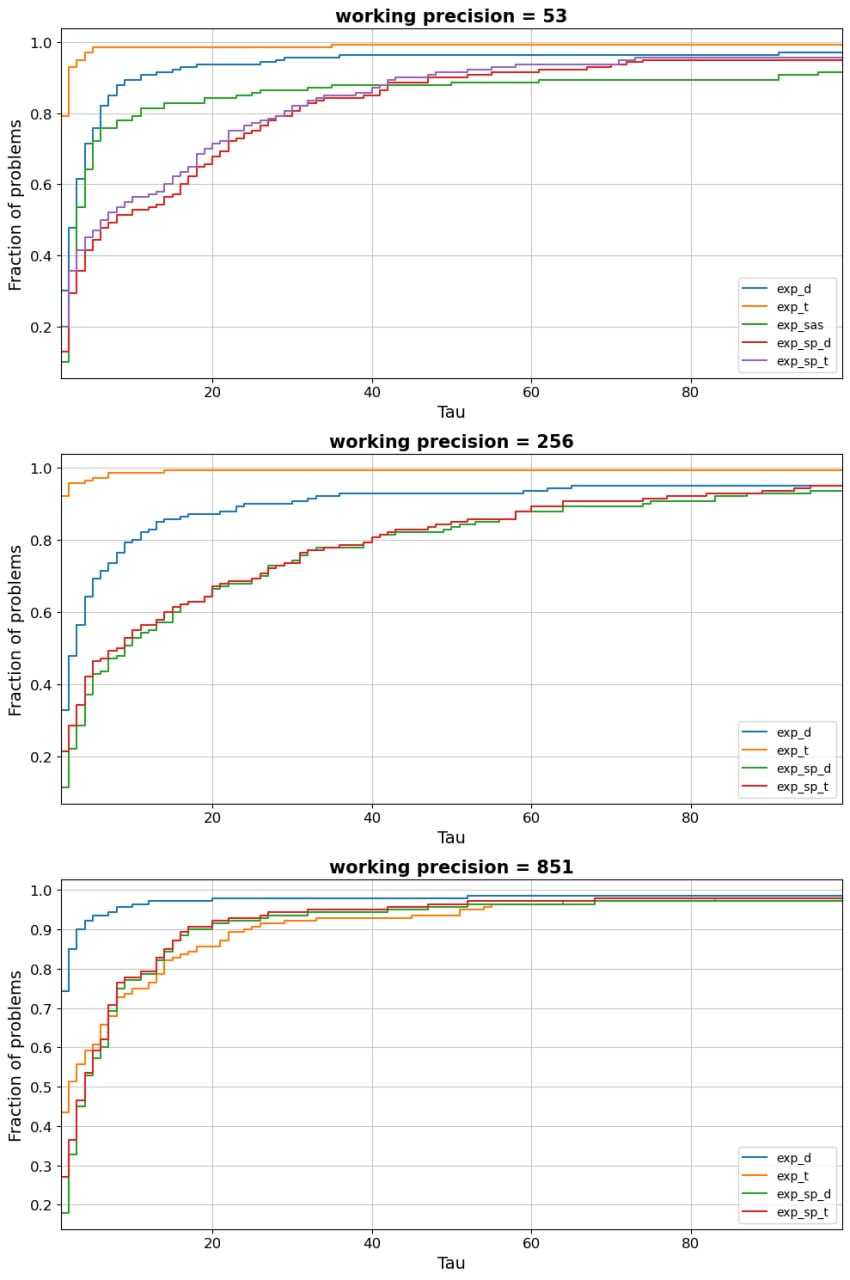
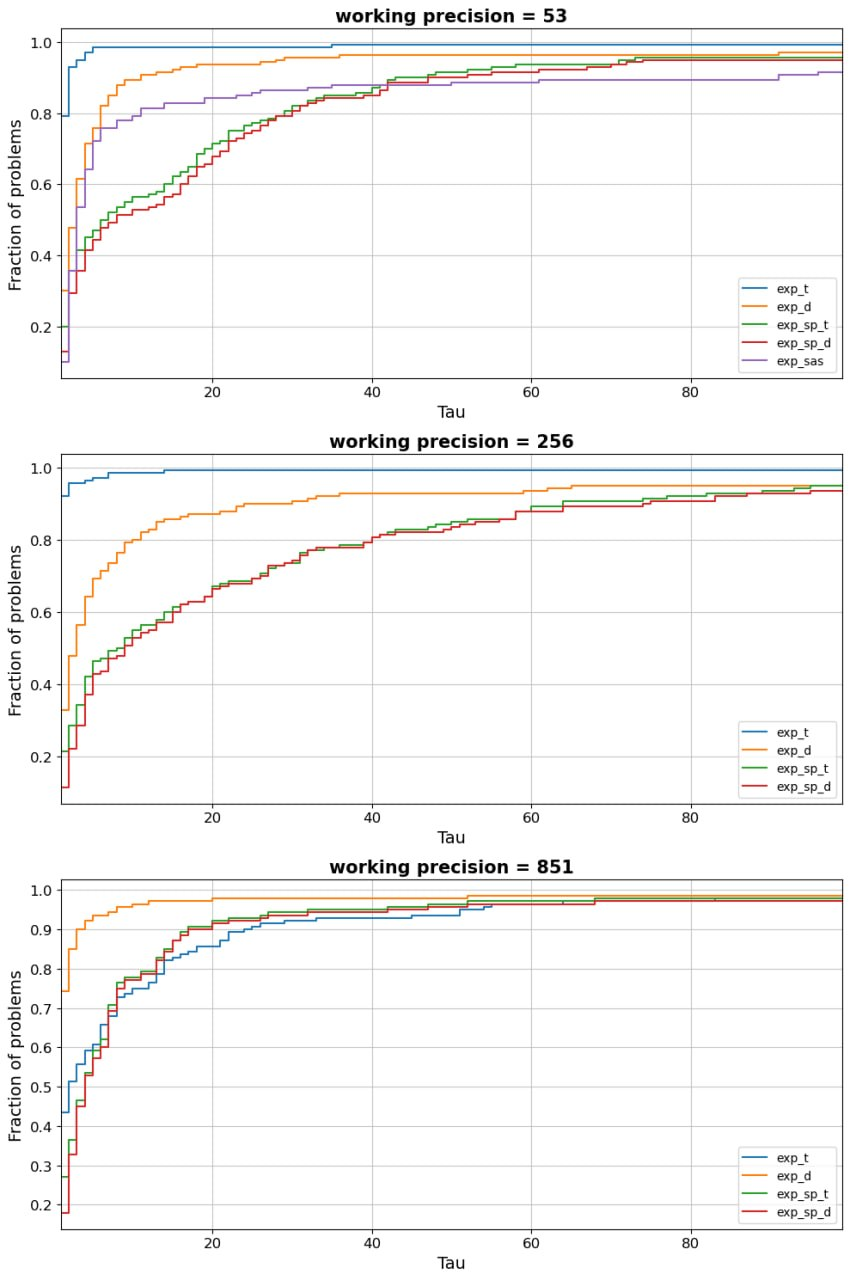
Recepite alcune osservazioni del prof. Grafico hump. Altri progressi

diff --git a/Tesi/Capitoli/Chapter6.tex b/Tesi/Capitoli/Chapter6.tex
@@ -181,7 +181,7 @@ The bound for $\norm*{\exp(A)-Y_{\textup{true}}}$ depends on the conditioning of
 \begin{oss*}
 	In~\cite{exptayotf18}, the authors also propose numerical experiments analogous to those described in Algorithm~\ref{alg:second_test_strat}, but in which $\mathcal{A}$ is of the form $H^{\top}\!JH$ with $J$ being a Jordan form that makes $\mathcal{A}$ defective.
 	
-	The error bounds and the discussions in this section hold in this case as well. In fact, the \textcolor{red}{crucial aspects / grounding elements} are the unitary change of basis $H$ and the matrix multiplications performed in floating-point arithmetic. 
+	The error bounds and the discussions in this section hold in this case as well. In fact, the crucial aspects are the unitary change of basis $H$ and the matrix multiplications performed in floating-point arithmetic. 
 \end{oss*}
 
 \subsubsection{Experimental setup, in conclusion}
@@ -222,13 +222,14 @@ Some configurations of the algorithm haven't been executed on all of the test ma
 \smallskip 
 
 Figure~\vref{fig:hist_matrix_sizes} shows how many $n\times n$ matrices are present in the test set, for each available size $n$.
-\begin{figure}[hbp]
+\begin{figure}[htp]
 	\centering
 	\includegraphics[width=0.8\textwidth]{Immagini/hist_matrix_sizes}
 	\caption{\emph{Number of distinct test matrices per matrix size.}}
 	\label{fig:hist_matrix_sizes}
 \end{figure}
-Most matrices are $10$-by-$10$, the maximum size is $24$-by-$24$. Such small sizes are motivated by performance considerations, as the algorithm to compute $\kappa_{\exp}$ (Algorithm~\ref{alg:exact_cond_n}) struggles even on matrices of moderate size, and \textcolor{red}{-- as already discussed somewhere --} \texttt{exp\_mp} is computationally expensive as well. We remark that most test matrices are the same that were used in the accuracy tests in~\cite{higham:hf19_mpexpm}. This included their sizes. \textcolor{red}{La tolgo questa osservazione se è troppo passivo-aggressiva senza essere davvero necessaria.}
+Most matrices are $10$-by-$10$, the maximum size is $24$-by-$24$. Such small sizes are motivated by performance considerations, as the algorithm to compute $\kappa_{\exp}$ (Algorithm~\ref{alg:exact_cond_n}) struggles even on matrices of moderate size, and \textcolor{red}{-- as already discussed somewhere --} \texttt{exp\_mp} is computationally expensive as well. 
+The accuracy tests in~\cite{higham:hf19_mpexpm} also use small matrices only, presumably for the same reasons.
 
 Table~\ref{tab:hermitian_test_matrices} specifies how many samples refer to Hermitian matrices and how many refer to non Hermitian matrices.
 \begin{table}[htp]
@@ -254,9 +255,38 @@ Table~\ref{tab:hermitian_test_matrices} specifies how many samples refer to Herm
 
 
 \subsection{Computing the reference solution}
-The exponential of some of the test matrices is known in closed formula. For $8$ test matrices ($152$ samples), $Y_{\textup{true}}$ was computed in advance, by evaluating the formula at a high precision $\hat{p}$. This was done only for the matrices $A$ for which it would be guaranteed that $Y_{\textup{true}}=\exp(A)+E$ s.t. $\norm{E}/\norm{\exp(A)}=O(u_{\hat{p}})$, and for which there was the ``suspicion'' that the methods to compute the reference solution wouldn't return a good approximation of $\exp(A)$, or at least not as good as the high precision evaluation of its closed formula.\newline
-\textcolor{red}{Se serve posso mettere un esempio un po' interessante, diverso dall'esponenziale di una matrice diagonale. Se l'approccio è sbagliato, faccio che tutte le soluzioni di riferimento le calcola mpmath e via.}\newline
-For the vast majority of the test matrices, the reference solution was computed using another numerical method.
+The exponential of some of the test matrices is known in closed formula. For $8$ test matrices ($152$ samples), $Y_{\textup{true}}$ was computed in advance, by evaluating the formula at a high precision $\hat{p}$. This was done only for the matrices $A$ for which it would be guaranteed that $Y_{\textup{true}}=\exp(A)+E$ such that $\norm{E}/\norm{\exp(A)}=O(u_{\hat{p}})$, and for which there was the ``suspicion'' that the methods to compute the reference solution wouldn't return a good approximation of $\exp(A)$, or at least not as good as the high precision evaluation of its closed formula.
+\begin{esempio}
+	Let $b=10^4$ and let
+	\vspace{-1em}
+	\[
+		A = \begin{pmatrix}
+			1-\frac{b}{2} & \frac{b}{2}\\
+			-\frac{b}{2} & 1+\frac{b}{2}
+		\end{pmatrix}=
+		\begin{pmatrix}
+			1 & 0 \\ 0 & 1
+		\end{pmatrix}+\!\quad\raisebox{6.5pt}{$
+		\begin{NiceArray}{ccc}[first-row]
+			 \Hbrace{1}{\coloneqq u} & \Hbrace{2}{\coloneqq v^{\top}}\\
+			-1 & \frac{b}{2} & -\frac{b}{2}\\
+			 1 & & \\
+		\CodeAfter
+			\SubMatrix({1-1}{2-1})
+			\SubMatrix({1-2}{1-3})
+			%\OverBrace[shorten, yshift=3pt]{1-1}{2-1}{\mathsmaller{\coloneqq u}}
+			%\OverBrace[shorten, yshift=3pt]{1-2}{1-3}{\tiny\coloneqq v^\top}
+		\end{NiceArray}$}\,\ =I+uv^{\top}
+	\]
+	A is a rank 1 correction of the identity. There is an explicit formula for the function of such matrices, see~\cite[Eqn.~1.16]{higham:matfun_book}. By applying it, we get
+	\begin{align*}
+		\exp(A) &= \exp(I+uv^{\top}) = \exp(1)I + \exp\!\qty[1+\langle u,v\rangle,1]\,uv^{\top}\\
+		&=\exp(1)I+\exp[1,1]\,uv^{\top} = \exp(1)I+\exp'(1)\,uv^{\top}\\
+		&=\exp(1)\qty(I+uv^{\top}) = \exp(1) A,
+	\end{align*}
+	which can be easily evaluated in arbitrary precision.
+\end{esempio}
+For the vast majority of the test matrices, the reference solution was computed using another numerical method, which we will now describe.
 \smallskip 
 
 \textcolor{red}{Rivisitare alla luce di paragrafo~\ref{subs:diagonalization}} In an earlier phase of testing, $Y_{\textup{true}}$ was being computed via diagonalization, i.e. as $Y_{\textup{true}}=\mathtt{V}*\exp(\mathtt{D})\,/\,\mathtt{V}$, where $\mathtt{V}$ and $\mathtt{D}$ are, respectively, the eigenvector and eigenvalue matrices returned by a high precision eigendecomposition. 
@@ -376,15 +406,41 @@ Table~\vref{tab:samples_within_bnd} \textcolor{red}{(che sicuramente va sistemat
 	\centering
 	\caption{\emph{Number (and percentage) of matrices for which the relative error is bounded by $n^2\cdot\kappa_{\exp}\cdot u_p$, for each \texttt{exp\_mp} configuration and for each working precision value.}}
 	\label{tab:samples_within_bnd}
-	\begin{tabular}{lcccccc}
-	\toprule
-	\multirow{2}*{$p$} & \multicolumn{2}{c}{\texttt{transfree}} & \multicolumn{2}{c}{\texttt{realschur}} & \multicolumn{2}{c}{\texttt{complexschur}}\\
-	\cmidrule(lr){2-3} \cmidrule(lr){4-5} \cmidrule(lr){6-7}
-	 & Padé & Taylor & Padé & Taylor & Padé & Taylor\\
-	\midrule
-	$53$  & $132$ ($\SIqty{94.29}{\percent}$) & $133$ ($\SIqty{95.00}{\percent}$) & $122$ ($\SIqty{94.57}{\percent}$) & $122$ ($\SIqty{94.57}{\percent}$) & $133$ ($\SIqty{95.00}{\percent}$) & $133$ ($\SIqty{95.00}{\percent}$) \\
-	$256$ & $132$ ($\SIqty{94.29}{\percent}$) & $133$ ($\SIqty{95.00}{\percent}$) & $122$ ($\SIqty{94.57}{\percent}$) & $122$ ($\SIqty{94.57}{\percent}$) & $133$ ($\SIqty{95.00}{\percent}$) & $133$ ($\SIqty{95.00}{\percent}$) \\
-	$851$ & $133$ ($\SIqty{95.00}{\percent}$) & $132$ ($\SIqty{94.29}{\percent}$) & $121$ ($\SIqty{93.80}{\percent}$) & $121$ ($\SIqty{93.80}{\percent}$) & $132$ ($\SIqty{94.29}{\percent}$) & $132$ ($\SIqty{94.29}{\percent}$) \\
-	\bottomrule
+	\begin{tabular}{ccccc}
+		\toprule
+		\multirow{2}*{Algorithm} & \multirow{2}*{Approx.} & \multicolumn{3}{c}{Precision $p$}\\
+		\cmidrule(lr){3-5}
+		 &  & $53$ & $256$ & $851$ \\
+		\midrule
+		\multirow{2}{*}{\texttt{transfree}}
+		& Padé
+		& $132$ (\SIqty{94.29}{\percent})
+		& $132$ (\SIqty{94.29}{\percent})
+		& $133$ (\SIqty{95.00}{\percent}) \\
+		& Taylor
+		& $133$ (\SIqty{95.00}{\percent})
+		& $133$ (\SIqty{95.00}{\percent})
+		& $132$ (\SIqty{94.29}{\percent}) \\
+		\midrule
+		\multirow{2}{*}{\texttt{realschur}}
+		& Padé
+		& $122$ (\SIqty{94.57}{\percent})
+		& $122$ (\SIqty{94.57}{\percent})
+		& $121$ (\SIqty{93.80}{\percent}) \\
+		& Taylor
+		& $122$ (\SIqty{94.57}{\percent})
+		& $122$ (\SIqty{94.57}{\percent})
+		& $121$ (\SIqty{93.80}{\percent}) \\
+		\midrule
+		\multirow{2}{*}{\texttt{complexschur}}
+		& Padé
+		& $133$ (\SIqty{95.00}{\percent})
+		& $133$ (\SIqty{95.00}{\percent})
+		& $132$ (\SIqty{94.29}{\percent}) \\
+		& Taylor
+		& $133$ (\SIqty{95.00}{\percent})
+		& $133$ (\SIqty{95.00}{\percent})
+		& $132$ (\SIqty{94.29}{\percent}) \\
+		\bottomrule
 	\end{tabular}
 \end{table}

diff --git a/Tesi/Capitoli/Chapter2.tex b/Tesi/Capitoli/Chapter2.tex
@@ -7,7 +7,7 @@ This is \emph{very} different from applying (the scalar) $f$ to the elements of 
 
 \begin{esempio*}
 	By analogy with the complex exponential, the matrix exponential function $\exp\colon\C{n}{n}\to\C{n}{n}$ should map the zero matrix to the identity matrix.  
-	Instead, the element-wise application of the complex exponential, denoted -- using Julia notation -- by $e.$, returns $e.(0_{n\times n})=\mathrm{e}\,\mathrm{e}^{\!\top}$, where $\mathrm{e}\in\C{n}$ is the vector of all ones.
+	Instead, the element-wise application of the complex exponential, denoted -- using Julia notation -- by $\exp\!.$, returns $\exp\!.(0_{n\times n})=\mathrm{e}\,\mathrm{e}^{\!\top}$, where $\mathrm{e}\in\C{n}$ is the vector of all ones.
 \end{esempio*}
 
 \textcolor{red}{Funzioni di matrici che conoscono tutti: i polinomi di matrici, e la funzione $f(A)=A^{-1}$.}
@@ -249,7 +249,7 @@ The Fréchet derivative of $f$ at $A$ may not exist, but if it exists then it is
 	The notation $L_{f}(A)[E]$ can be read as ``the (Fréchet) derivative of $f$, in $A$, applied to $E$'', or ``the (Fréchet) derivative of $f$, computed in $A$, along the direction $E$''. 
 	$L(A)$ denotes the linear operator $E\mapsto L(A)[E]$.
 	
-	\textcolor{red}{Forse introdurre notazione $\dd f(A)$?}
+	%\textcolor{red}{Forse introdurre notazione $\dd f(A)$?}
 \end{notazione*}
 
 \begin{oss}\label{oss:frechet_generalizza}
@@ -271,11 +271,11 @@ In equation~\eqref{eqn:cond_frechet}, the norm of the Fréchet differential at $
 \begin{equation}\label{eqn:def_norm_frechet}
 	\norm{L_f(A)}\coloneqq\max_{\substack{E\in\C{n}{n}\\ E\ne 0}}\frac{\norm{L_f(A)[E]}}{\norm{E}}.
 \end{equation} 
-The norm of the operator $L_f(A)$ is the one induced by the norms of the input and output vector spaces. Being them $\C{n}{n}$, these norms are matrix norms. 
-\smallskip 
+The norm of the operator $L_f(A)$ is the one induced by the norms of the input and output vector spaces. Being them $\C{n}{n}$, these norms are matrix norms.  
 
-\textcolor{red}{Note that from Remark~\ref{oss:frechet_generalizza} it follows that the~\eqref{eqn:cond_frechet} generalizes the definitions of condition numbers for differentiable functions that we already know.}
-\smallskip 
+\begin{oss*}
+	Note that from Remark~\ref{oss:frechet_generalizza} it follows that the~\eqref{eqn:cond_frechet} generalizes the definitions of condition numbers for differentiable vector-valued functions that we encountered in Section~\ref{sect:conditioning_general}.
+\end{oss*}
 
 The differential $\dd f(x)$ of a function $f\colon\R{n}\to\R{n}$ at a point $x\in\R{n}$ is a linear map from $\R{n}$ to $\R{n}$ which is represented in the canonical basis by the Jacobian matrix. An analogous phenomenon happens for matrix functions: the action of the Fréchet derivative can closely related to the multiplication by a matrix. Unlike the $\R{n}$ case however, the isomorphism is not the identity.
 
@@ -306,7 +306,7 @@ Equation~\eqref{eqn:frechet_vec} not only very useful for deriving properties of
 
 If the vector spaces $\C{n}{n}$ and $\C{n^2}$ are equipped with, respectively, the inner products 
 $\langle\cdot,\cdot\rangle_F$ and $\langle\cdot,\cdot\rangle_2$, where the latter is the 
-standard euclidean \textcolor{red}{(Hermitian?)} inner product $\langle u,v\rangle=u^{H}v$
+standard Hermitian inner product $\langle u,v\rangle=u^{H}v$
 and the former is defined as $\langle U,V\rangle_F\coloneqq\tr(U^{H}V)$, 
 then $\operatorname{Vec}$ is an \emph{isometric isomorphism}, i.e. it satisfies
 \begin{equation}\label{eqn:vec_isometry}
@@ -357,9 +357,9 @@ If $f\colon\Omega\subseteq\C{n}\to\C{n}$ is $2n-1$ times continuously differenti
 		f(A) & L_f(A)[E] \\ \hline & f(A)
 	\end{array}\right)
 \end{equation}
-holds for any $A\in\C{n}{n}$ such that $\Lambda(A)\subseteq\Omega$ and for any direction $E\in\C{n}{n}$ for which $L_f(A)$ is defined.
+holds for any $A\in\C{n}{n}$ such that $\Lambda(A)\subseteq\Omega$ and for any direction $E\in\C{n}{n}$ for which $L_f(A)$ is defined. The reader is referred to~\cite[Thm.~3.6]{higham:matfun_book} for a proof of this result and additional details.
 
-Thanks to formula~\eqref{eqn:mathias_trick}, the problem of evaluating the Fréchet derivative is converted to that of computing the function on a matrix of twice the size. This computation returns both $f(A)$ and $L_f(A)[E]$\textcolor{red}{, similarly to what happens in forward mode automatic differentiation.}
+Thanks to formula~\eqref{eqn:mathias_trick}, the problem of evaluating the Fréchet derivative is converted to that of computing the function on a matrix of twice the size. This computation returns both $f(A)$ and $L_f(A)[E]$, similarly to what happens in forward mode automatic differentiation.
 However, the cost of evaluating a function on a matrix of size $n$ is usually $O(n^3)$, so the cost of computing $f(A)$ and $L_f(A)[E]$ using~\eqref{eqn:mathias_trick} is $8$ times that of computing $f(A)$ alone.
 
 Using~\eqref{eqn:mathias_trick} one can prove the following Lemma.
@@ -378,7 +378,7 @@ Lemma~\ref{lemma:frechet_power_series} (see~\cite[Problem~3.6]{higham:matfun_boo
 	\end{equation*}
 \end{lemma}
 \begin{proof}
-	The proof will only be sketched. \textcolor{red}{Spero sia giusta.}
+	The proof will only be sketched.
 	As a consequence of the product rule~\eqref{eqn:frechet_prod_rule}, for $k>1$,
 	\begin{equation}\label{eqn:differential_kth_power}
 	\begin{aligned}

diff --git a/Tesi/Capitoli/Chapter3.tex b/Tesi/Capitoli/Chapter3.tex
@@ -207,6 +207,23 @@ This method is not limited by the conditioning of the eigenvector basis, and can
 We recall that this phenomenon arises when the powers of a matrix grow before ultimately decaying to zero; the name is due to the fact that a hump is visible in the plot of the norms of the matrix powers.
 This behaviour is typical of highly nonnormal matrices and of matrices with badly scaled entries.
 
+\begin{esempio}
+	Let 
+	\begin{equation}\label{eqn:A_hump_phenomenon}
+		A = \begin{pmatrix}
+			-0.97 & 25\\ 0 & 0.3
+		\end{pmatrix}.
+	\end{equation}
+	The norms of the first $20$ powers of $A$ are displayed in Figure~\ref{fig:plot_normA_hump}.
+\end{esempio}
+
+\begin{figure}[htp]
+	\centering
+	\includegraphics[width=0.6\textwidth]{Immagini/plot_normA_hump.pdf}	
+	\caption{\emph{2-norms of the first 20 powers of $A$ in~\eqref{eqn:A_hump_phenomenon}.}}
+	\label{fig:plot_normA_hump}
+\end{figure}
+
 As a consequence of the hump phenomenon, $d$ may be very big, making the evaluation of the Taylor polynomial quite expensive. Another and more serious consequence is that the intermediate quantities produced by the algorithm have elements that are large in magnitude, thus the results of the intermediate computations are affected by an error which, albeit small relatively to the operands, is large with respect to the final result. In fact, when $A$ displays the hump phenomenon, $\exp(A)$ is small relatively to some powers of $A$.
 
 %The problem is that if the final result is smaller than the intermediate quantities, then the algorithm's internal computations -- having operated on big elements, reducing them -- are affected by 
@@ -392,7 +409,7 @@ which -- as discussed in Section~\ref{subs:paterson-stockmeyer} -- is approximat
 \begin{oss}
 	The evaluation scheme for $p_m(A)$ and $q_m(A)$ that was just described can be applied to any degree $m$, but not all of them are worth considering.
 	
-	For $m=1,\dots,21$ the optimal costs $\pi_m=\min\qty{C_m^{\textup{tot}}\qty(\lfloor\sqrt{m}\rfloor), C_m^{\textup{tot}}(\lceil\sqrt{m}\,\rceil)}$ are tabulated in~\cite[Table~2.2]{higham:SaS_revisited}.
+	For $m\in[21]$ the optimal costs $\pi_m=\min\qty{C_m^{\textup{tot}}\qty(\lfloor\sqrt{m}\rfloor), C_m^{\textup{tot}}(\lceil\sqrt{m}\,\rceil)}$ are tabulated in~\cite[Table~2.2]{higham:SaS_revisited}.
 	Some values of $m$ can be discarded because there exist higher degrees with the same cost $\pi_m$.
 	
 %	In general, we can define a notion of \emph{optimal degree}. If evaluating the approximant of order $m$ has cost $\pi_m$, optimal degrees are defined as

diff --git a/Tesi/Capitoli/Chapter1.tex b/Tesi/Capitoli/Chapter1.tex
@@ -249,7 +249,7 @@ The concept of error is central in all Numerical Analysis. As real problems are 
 
 We remind that there are three main sources of error:
 \begin{itemize}
-	\item The \emph{intrinsic error} is due to data uncertainty, namely by replacing a real quantity with a finite precision one. If present, this type of error would influence the output of an algorithm even if all the operations were performed exactly and there was no truncation.
+	\item The \emph{intrinsic error} is due to data uncertainty, namely by replacing, in the input to the algorithm, a real quantity with a finite precision one. If present, this type of error would influence the output of an algorithm even if all the operations were performed exactly and there was no truncation.
 	\item Many mathematical functions or problems contain a limiting process of some sort. Numerical methods are bound to work with finite quantities, thus the infinite process has to be replaced with a finite one. This approximation introduces an error that is called \emph{analytic} (or \emph{truncation}, or \emph{discretization}) \emph{error}. 
 	
 	For example, the (scalar) exponential function $e^x$ is defined by its Taylor series. The function can be computed by summing the first $N$ terms, i.e. by truncating the infinite series. The truncation error can be estimated by estimating the remainder. 

diff --git a/Tesi/Immagini/plot_normA_hump.tex b/Tesi/Immagini/plot_normA_hump.tex
@@ -1,4 +1,4 @@
-\documentclass{article}
+\documentclass[tikz,border=5pt]{standalone}
 
 \usepackage{AndreaStyle}
 \usepackage{pgfplots}
@@ -6,41 +6,41 @@
 
 \begin{document}
 	
-	\begin{figure}
-		\centering
+	\begin{tikzpicture}
+		\begin{axis}[
+			xlabel={$k$},
+			ylabel={$\norm{A^k}_2$},
+			xmin=0,
+			ymin=18,
+			ymax=35,
+			ytick distance=3,
+			grid=major,
+			grid style={
+				dotted,
+				opacity=0.4,
+			},
+			axis lines=left,
+			]
+			
+			\addplot[
+			thick,
+			mark=*,
+			]
+			table[
+				col sep=comma,
+				x=k,
+				y=norm2
+			]{../Varie/hump_data.csv};
+			
+	%				\pgfmathsetmacro{\yzero}{13.52} 
+	%				
+	%				\addplot[
+	%					dashed,
+	%					thick,
+	%					domain=0:20,
+	%				] {\yzero};
+		\end{axis}
+	\end{tikzpicture}
 		
-		\begin{tikzpicture}
-			\begin{axis}[
-				xlabel={$k$},
-				ylabel={$\norm{A^k}_2$},
-				xmin=0,
-				ymin=18,
-				ymax=35,
-				grid=major,
-				axis lines=left,
-				]
-				
-				\addplot[
-				thick,
-				mark=*,
-				]
-				table[
-					col sep=comma,
-					x=k,
-					y=norm2
-				]{../Varie/hump_data.csv};
-				
-%				\pgfmathsetmacro{\yzero}{13.52} 
-%				
-%				\addplot[
-%					dashed,
-%					thick,
-%					domain=0:20,
-%				] {\yzero};
-			\end{axis}
-		\end{tikzpicture}
-		
-		\caption{\emph{Growth of $\norm{A^k}_2$.}}
-	\end{figure}
 	
 \end{document}

diff --git a/Tesi/main.tex b/Tesi/main.tex
@@ -22,7 +22,14 @@
 \usepackage{listings}					% Per scrivere codice in LaTeX...
 %\usepackage{minted}
 
-\usepackage{bbm}
+\usepackage{bbm}						% Caratteri aggiuntivi in stile mathbb
+
+
+\usepackage{tikz}
+\usetikzlibrary{decorations.pathreplacing}
+
+\usepackage{pgfplots}					% per fare plots in LaTeX
+\pgfplotsset{compat=1.18}
 
 \usepackage[all,cmtip]{xy}				% xymatrix. Per fare diagrammi
 %\usepackage{arydshln}					% Linee 
